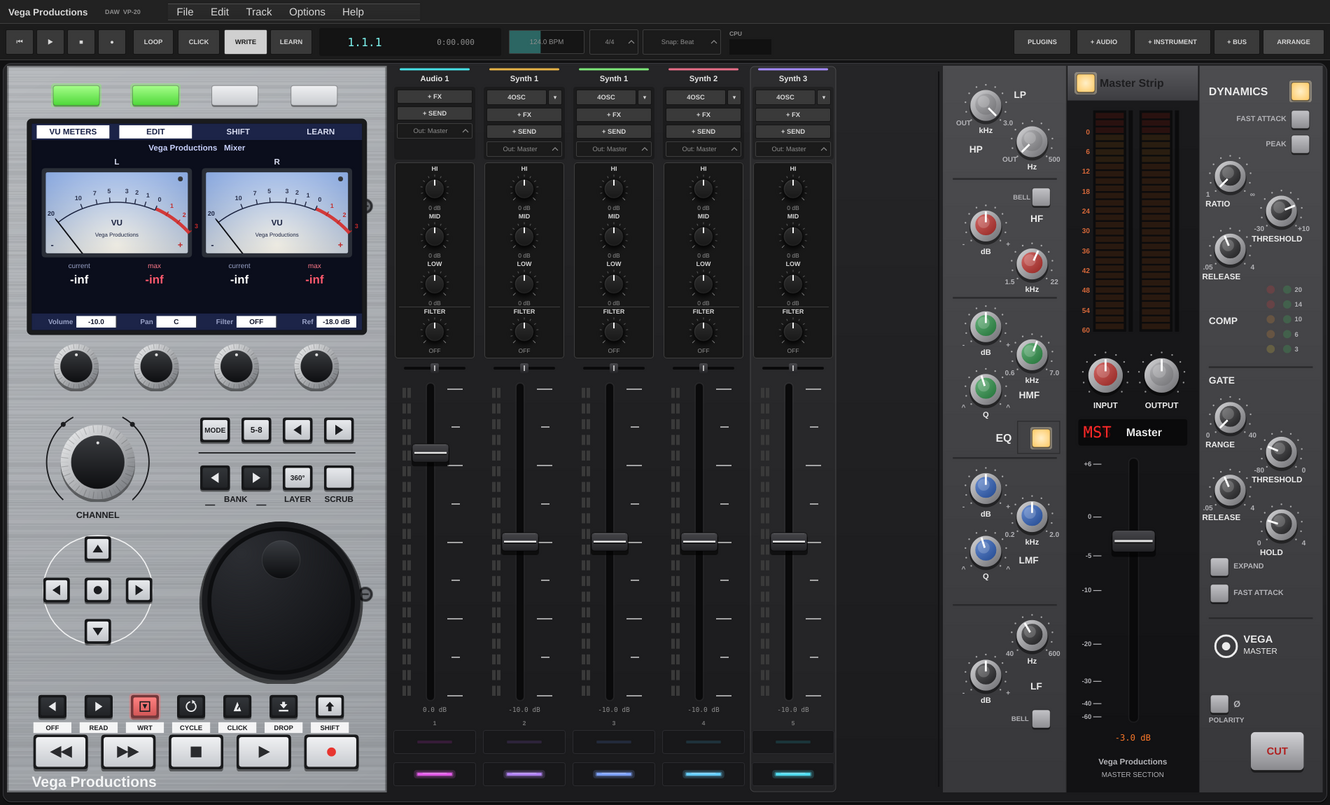
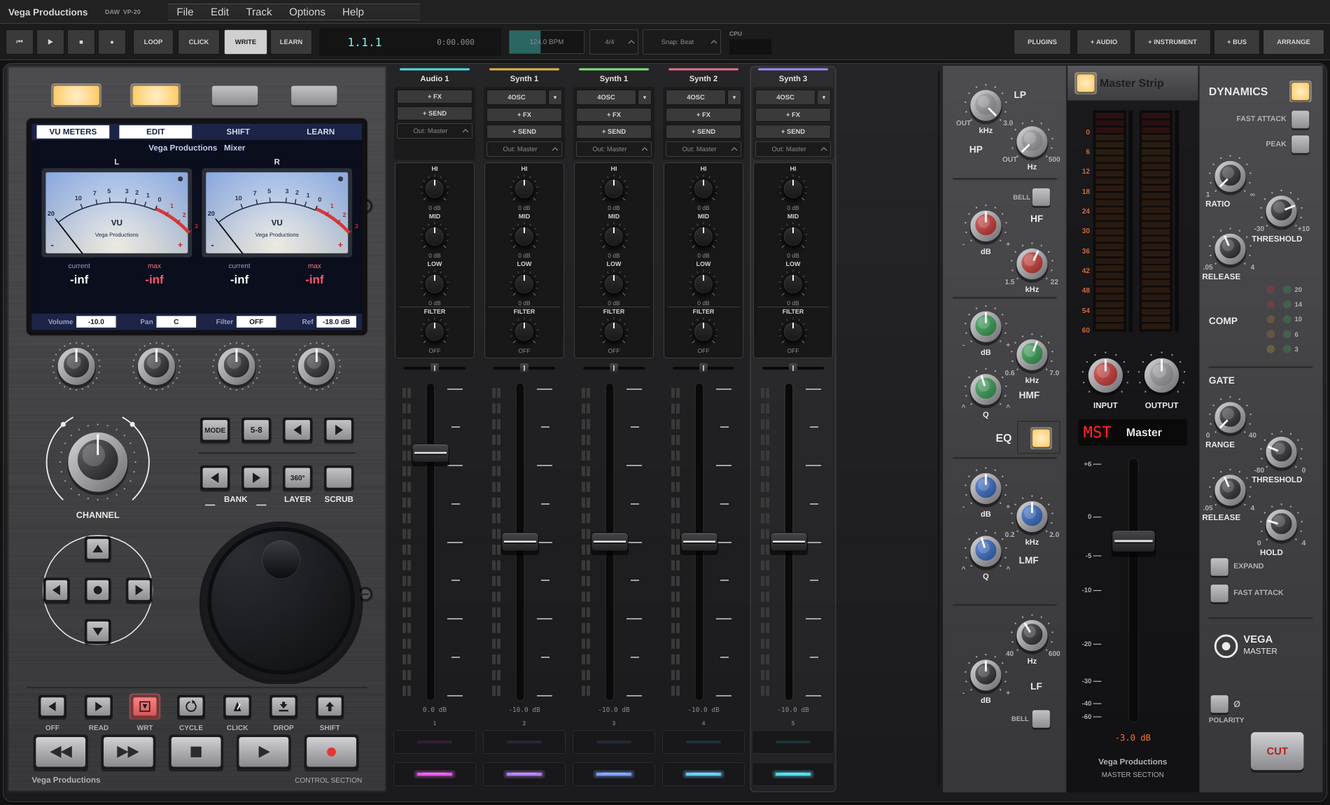
Control section uses the master section's colour scheme: graphite panel, white lettering, grey keys with warm lamp glow, master-style knobs
Claude-Session: https://claude.ai/code/session_01VJnHMTEDfDub9U6z6b13o5

Changed region(s): [[0.0, 0.0621, 0.3083, 0.9938]]

diff --git a/Source/MixerView.cpp b/Source/MixerView.cpp
@@ -700,10 +700,10 @@ public:
         g.setColour (juce::Colours::black.withAlpha (0.35f)); g.fillRoundedRectangle (r.translated (0, 2.0f), 3.0f);
         if (getToggleState())
         {
-            g.setColour (juce::Colour (0xff7dff5a).withAlpha (0.35f)); g.fillRoundedRectangle (r.expanded (3.0f), 5.0f);
-            g.setGradientFill (juce::ColourGradient (juce::Colour (0xffa6ff8a), 0, r.getY(), juce::Colour (0xff4fd83a), 0, r.getBottom(), false));
+            g.setColour (juce::Colour (0xfffff0c8).withAlpha (0.35f)); g.fillRoundedRectangle (r.expanded (3.0f), 5.0f);
+            g.setGradientFill (juce::ColourGradient (juce::Colour (0xfffff0c8), r.getCentreX(), r.getCentreY(), juce::Colour (0xffffc860), r.getX(), r.getY(), true));
         }
-        else g.setGradientFill (juce::ColourGradient (juce::Colour (down ? 0xffd8dadd : over ? 0xfffafbfc : 0xfff0f1f3), 0, r.getY(), juce::Colour (0xffc9ccd0), 0, r.getBottom(), false));
+        else g.setGradientFill (juce::ColourGradient (juce::Colour (down ? 0xffa8a8ac : over ? 0xffd2d2d6 : 0xffc4c4c8), 0, r.getY(), juce::Colour (0xff8e8e92), 0, r.getBottom(), false));
         g.fillRoundedRectangle (r, 3.0f);
         g.setColour (juce::Colours::black.withAlpha (0.25f)); g.drawRoundedRectangle (r, 3.0f, 1.0f);
     }
@@ -714,8 +714,8 @@ class Key : public juce::Button
 {
 public:
     enum Icon { none, left, right, up, down, dot, loop, metro, dropIn, shiftUp, write, text };
-    Key (Icon i = none, juce::String t = {}, juce::Colour litCol = juce::Colour (0xfff7f06a), bool darkFace = true)
-        : juce::Button (t), icon (i), lit (litCol), dark (darkFace) {}
+    Key (Icon i = none, juce::String t = {}, juce::Colour litCol = juce::Colour (0xffffd98a), bool darkFace = false)
+        : juce::Button (t), icon (i), lit (litCol), dark (false) { juce::ignoreUnused (darkFace); }
     Icon icon; juce::Colour lit; bool dark;
     void paintButton (juce::Graphics& g, bool over, bool isDown) override
     {
@@ -725,8 +725,8 @@ public:
         g.setColour (juce::Colour (0xff17181a)); g.fillRoundedRectangle (r, 3.0f);                           // bezel
         auto face = r.reduced (3.0f);
         if (on) { g.setColour (lit.withAlpha (0.4f)); g.fillRoundedRectangle (r.expanded (2.0f), 4.0f); }
-        juce::Colour top = on ? lit.brighter (0.2f) : dark ? juce::Colour (isDown ? 0xff2a2c30 : over ? 0xff3b3e43 : 0xff33363a) : juce::Colour (isDown ? 0xffcfd2d6 : over ? 0xfff6f7f8 : 0xffe9ebee);
-        juce::Colour bot = on ? lit.darker (0.2f) : dark ? juce::Colour (0xff222427) : juce::Colour (0xffc2c5ca);
+        juce::Colour top = on ? lit.brighter (0.2f) : dark ? juce::Colour (isDown ? 0xff2a2c30 : over ? 0xff3b3e43 : 0xff33363a) : juce::Colour (isDown ? 0xffa8a8ac : over ? 0xffd2d2d6 : 0xffc4c4c8);
+        juce::Colour bot = on ? lit.darker (0.2f) : dark ? juce::Colour (0xff222427) : juce::Colour (0xff8e8e92);
         g.setGradientFill (juce::ColourGradient (top, 0, face.getY(), bot, 0, face.getBottom(), false));
         g.fillRoundedRectangle (face, 2.0f);
         const auto ink = on || ! dark ? juce::Colour (0xff1c1d20) : juce::Colour (0xffe9eaec);
@@ -774,7 +774,7 @@ public:
         g.setColour (juce::Colours::black.withAlpha (0.45f)); g.fillRoundedRectangle (r.translated (0, 3.0f), 4.0f);
         g.setColour (juce::Colour (0xff1a1b1d)); g.fillRoundedRectangle (r, 4.0f);
         auto face = r.reduced (3.0f);
-        juce::Colour top = juce::Colour (down ? 0xffd2d5d9 : over ? 0xfffbfcfd : 0xfff1f2f4), bot = juce::Colour (0xffc8cbd0);
+        juce::Colour top = juce::Colour (down ? 0xffb8b8bc : over ? 0xffe2e2e6 : 0xffd2d2d6), bot = juce::Colour (0xff8a8a8e);
         if (on && icon == play) { top = juce::Colour (0xff8cff6c); bot = juce::Colour (0xff3fcf32); g.setColour (juce::Colour (0x667dff5a)); g.fillRoundedRectangle (r.expanded (3.0f), 6.0f); }
         if (on && icon == rec)  { top = juce::Colour (0xffff7a7a); bot = juce::Colour (0xffe03a3a); g.setColour (juce::Colour (0x66ff4040)); g.fillRoundedRectangle (r.expanded (3.0f), 6.0f); }
         g.setGradientFill (juce::ColourGradient (top, 0, face.getY(), bot, 0, face.getBottom(), false));
@@ -803,25 +803,27 @@ public:
     std::function<void()> onReset;
     void paint (juce::Graphics& g) override
     {
-        auto r = getLocalBounds().toFloat().reduced (3.0f);
-        const auto c = r.getCentre(); const float rad = std::min (r.getWidth(), r.getHeight()) * 0.5f;
-        g.setColour (juce::Colours::black.withAlpha (0.45f)); g.fillEllipse (juce::Rectangle<float> (rad * 2, rad * 2).withCentre (c.translated (0, 4)));
-        // knurled chrome skirt
-        g.setGradientFill (juce::ColourGradient (juce::Colour (0xfff4f5f6), c.x - rad, c.y - rad, juce::Colour (0xff6d7075), c.x + rad, c.y + rad, false));
-        g.fillEllipse (juce::Rectangle<float> (rad * 2, rad * 2).withCentre (c));
-        for (int i = 0; i < 48; ++i)
+        // same look as the master section's knobs: ring of dots, grey skirt, dark cap, white pointer
+        auto r = getLocalBounds().toFloat();
+        const auto c = r.getCentre(); const float outer = std::min (r.getWidth(), r.getHeight()) * 0.5f;
+        g.setColour (juce::Colours::white.withAlpha (0.45f));
+        for (int i = 0; i < 24; ++i)
         {
-            const float a = i * juce::MathConstants<float>::twoPi / 48.0f + angle;
-            g.setColour (juce::Colours::black.withAlpha (i % 2 ? 0.18f : 0.05f));
-            g.drawLine (c.x + std::sin (a) * rad * 0.8f, c.y - std::cos (a) * rad * 0.8f, c.x + std::sin (a) * rad, c.y - std::cos (a) * rad, 1.0f);
+            const float a = i * juce::MathConstants<float>::twoPi / 24.0f;
+            g.fillEllipse (juce::Rectangle<float> (2.0f, 2.0f).withCentre ({ c.x + std::sin (a) * outer * 0.95f, c.y - std::cos (a) * outer * 0.95f }));
         }
-        // black top
-        const float tr = rad * 0.72f;
-        g.setGradientFill (juce::ColourGradient (juce::Colour (0xff3a3c40), c.x, c.y - tr, juce::Colour (0xff0e0f11), c.x, c.y + tr, false));
-        g.fillEllipse (juce::Rectangle<float> (tr * 2, tr * 2).withCentre (c));
-        g.setColour (juce::Colours::white.withAlpha (0.1f)); g.drawEllipse (juce::Rectangle<float> (tr * 2, tr * 2).withCentre (c), 1.0f);
-        g.setColour (juce::Colours::white.withAlpha (0.85f));
-        g.fillEllipse (juce::Rectangle<float> (3.5f, 3.5f).withCentre ({ c.x + std::sin (angle) * tr * 0.72f, c.y - std::cos (angle) * tr * 0.72f }));
+        const float d = outer * 1.5f;
+        auto skirt = juce::Rectangle<float> (d, d).withCentre (c);
+        g.setColour (juce::Colours::black.withAlpha (0.45f)); g.fillEllipse (skirt.translated (0, 3.0f).expanded (1.0f));
+        g.setGradientFill (juce::ColourGradient (juce::Colour (0xffd6d6d8), skirt.getX(), skirt.getY(), juce::Colour (0xff6c6c70), skirt.getRight(), skirt.getBottom(), false));
+        g.fillEllipse (skirt);
+        auto cap = skirt.reduced (d * 0.16f).translated (0, -d * 0.04f);
+        const auto capCol = console::black;
+        g.setGradientFill (juce::ColourGradient (capCol.brighter (0.45f), cap.getX(), cap.getY(), capCol.darker (0.35f), cap.getRight(), cap.getBottom(), true));
+        g.fillEllipse (cap);
+        g.setColour (juce::Colours::white.withAlpha (0.18f)); g.fillEllipse (cap.reduced (cap.getWidth() * 0.22f).translated (-cap.getWidth() * 0.1f, -cap.getHeight() * 0.12f));
+        g.setColour (juce::Colours::white);
+        g.drawLine (c.x + std::sin (angle) * d * 0.12f, c.y - std::cos (angle) * d * 0.12f, c.x + std::sin (angle) * d * 0.47f, c.y - std::cos (angle) * d * 0.47f, 2.4f);
     }
     void mouseDown (const juce::MouseEvent& e) override { lastY = e.position.y; }
     void mouseDrag (const juce::MouseEvent& e) override
@@ -1099,7 +1101,8 @@ private:
         g.drawImageAt (plate, 0, 0);
         // screen
         auto scr = juce::Rectangle<float> (30, 70, 400, 250);
-        g.setColour (juce::Colour (0xff1a1b1d)); g.fillRoundedRectangle (scr.expanded (6), 6.0f);
+        g.setColour (juce::Colour (0xff121214)); g.fillRoundedRectangle (scr.expanded (6), 6.0f);
+        g.setColour (juce::Colours::black.withAlpha (0.35f)); g.drawRoundedRectangle (scr.expanded (6), 6.0f, 2.0f);
         g.setColour (juce::Colour (0xff070809)); g.fillRect (scr);
         // tab bar (soft key labels)
         auto tabs = scr.removeFromTop (20.0f);
@@ -1148,7 +1151,7 @@ private:
         g.setColour (juce::Colour (0xff3a3c40));
         for (int i = 1; i < 4; ++i) g.fillRect ((float) encX (i) - 49, bar.getY() + 3, 1.0f, bar.getHeight() - 6);
         // labels + channel arcs
-        g.setColour (juce::Colour (0xff1c1d20)); g.setFont (VegaFonts::ui (12.0f, true));
+        g.setColour (console::ink); g.setFont (VegaFonts::ui (12.0f, true));
         g.drawText ("CHANNEL", 50, 536, 120, 16, juce::Justification::centred);
         {
             juce::Path arc; arc.addCentredArc (110, 480, 62, 62, 0, -2.4f, -0.5f, true);
@@ -1161,7 +1164,7 @@ private:
         g.drawText ("BANK", 232, 518, 90, 14, juce::Justification::centred);
         g.drawText ("LAYER", 332, 518, 40, 14, juce::Justification::centred);
         g.drawText ("SCRUB", 376, 518, 52, 14, juce::Justification::centred);
-        g.fillRect (232.0f, 468.0f, 190.0f, 1.5f);
+        g.setColour (console::line); g.fillRect (232.0f, 468.0f, 190.0f, 2.0f); g.setColour (console::ink);
         g.drawLine (240, 532, 252, 532, 1.2f); g.drawLine (302, 532, 314, 532, 1.2f);
         // nav ring
         {
@@ -1173,12 +1176,13 @@ private:
         for (int i = 0; i < 7; ++i)
         {
             auto lr = juce::Rectangle<float> (36.0f + i * 56 - 4, 795, 46, 13);
-            g.setColour (juce::Colours::white.withAlpha (0.9f)); g.fillRect (lr);
-            g.setColour (juce::Colour (0xff1c1d20)); g.setFont (VegaFonts::ui (9.0f, true)); g.drawText (fn[i], lr, juce::Justification::centred);
+            g.setColour (console::inkDim); g.setFont (VegaFonts::ui (9.5f, true)); g.drawText (fn[i], lr, juce::Justification::centred);
         }
         // brand
-        g.setColour (juce::Colour (0xfff4f5f6)); g.setFont (juce::Font (juce::FontOptions ("Georgia", 20.0f, juce::Font::bold)));
-        g.drawText ("Vega Productions", 30, 856, 260, 22, juce::Justification::centredLeft);
+        g.setColour (console::line); g.fillRect (24.0f, 752.0f, (float) CW - 48, 2.0f);
+        g.setColour (console::inkDim); g.setFont (VegaFonts::ui (11.0f, true));
+        g.drawText ("Vega Productions", 30, 858, 200, 14, juce::Justification::centredLeft);
+        g.setFont (VegaFonts::ui (9.5f)); g.drawText ("CONTROL SECTION", CW - 230, 858, 200, 14, juce::Justification::centredRight);
     }
 
     void drawVu (juce::Graphics& g, juce::Rectangle<float> r, float vu)
@@ -1233,19 +1237,20 @@ private:
     {
         juce::Image img (juce::Image::RGB, CW, CH, true);
         juce::Graphics g (img);
-        g.setGradientFill (juce::ColourGradient (juce::Colour (0xffb7babe), 0, 0, juce::Colour (0xff9b9fa4), (float) CW, (float) CH, false));
+        // same finish as the master section's side panels
+        g.setGradientFill (juce::ColourGradient (console::panelTop, 0, 0, console::panelBot, 0, (float) CH, false));
         g.fillAll();
         juce::Random rnd (7);
-        for (int y = 0; y < CH; ++y)         // brushed finish
+        for (int y = 0; y < CH; ++y)         // very fine grain
         {
-            g.setColour ((rnd.nextBool() ? juce::Colours::white : juce::Colours::black).withAlpha (0.02f + rnd.nextFloat() * 0.04f));
+            g.setColour ((rnd.nextBool() ? juce::Colours::white : juce::Colours::black).withAlpha (0.008f + rnd.nextFloat() * 0.012f));
             g.drawHorizontalLine (y, 0, (float) CW);
         }
         g.setColour (juce::Colours::black.withAlpha (0.35f)); g.drawRect (0, 0, CW, CH, 2);
         for (auto [x, y] : { std::pair<int, int> { CW - 26, 170 }, { CW - 26, 640 } })   // screws
         {
-            g.setColour (juce::Colour (0xff2a2b2e)); g.fillEllipse ((float) x - 9, (float) y - 9, 18, 18);
-            g.setColour (juce::Colour (0xff6a6d72)); g.fillEllipse ((float) x - 6, (float) y - 6, 12, 12);
+            g.setColour (juce::Colour (0xff1e1e20)); g.fillEllipse ((float) x - 9, (float) y - 9, 18, 18);
+            g.setColour (juce::Colour (0xff55555a)); g.fillEllipse ((float) x - 6, (float) y - 6, 12, 12);
             g.setColour (juce::Colour (0xff1a1b1d)); g.drawLine ((float) x - 4, (float) y, (float) x + 4, (float) y, 1.5f);
         }
         return img;
@@ -1255,16 +1260,16 @@ private:
     Canvas canvas; juce::Image plate;
     uf::SoftKey soft[4];
     uf::Encoder enc[4], channel;
-    uf::Key mode { uf::Key::text, "MODE", juce::Colour (0xfff7f06a), false }, page58 { uf::Key::text, "5-8", juce::Colour (0xfff7f06a), false },
-            chanL { uf::Key::left, {}, juce::Colour (0xfff7f06a), false }, chanR { uf::Key::right, {}, juce::Colour (0xfff7f06a), false },
-            bankL { uf::Key::left }, bankR { uf::Key::right }, layer { uf::Key::text, juce::String::fromUTF8 ("360\xc2\xb0"), juce::Colour (0xfff7f06a), false },
+    uf::Key mode { uf::Key::text, "MODE", juce::Colour (0xffffd98a), false }, page58 { uf::Key::text, "5-8", juce::Colour (0xffffd98a), false },
+            chanL { uf::Key::left, {}, juce::Colour (0xffffd98a), false }, chanR { uf::Key::right, {}, juce::Colour (0xffffd98a), false },
+            bankL { uf::Key::left }, bankR { uf::Key::right }, layer { uf::Key::text, juce::String::fromUTF8 ("360\xc2\xb0"), juce::Colour (0xffffd98a), false },
             scrub { uf::Key::none, {}, juce::Colour (0xffff8a7a), false },
-            navUp { uf::Key::up, {}, juce::Colour (0xfff7f06a), false }, navDown { uf::Key::down, {}, juce::Colour (0xfff7f06a), false },
-            navLeft { uf::Key::left, {}, juce::Colour (0xfff7f06a), false }, navRight { uf::Key::right, {}, juce::Colour (0xfff7f06a), false },
-            navDot { uf::Key::dot, {}, juce::Colour (0xfff7f06a), false },
-            autoOff { uf::Key::left, {}, juce::Colour (0xfff7f06a) }, autoRead { uf::Key::right, {}, juce::Colour (0xff7dff5a) }, autoWrite { uf::Key::write, {}, juce::Colour (0xffff6a6a) },
-            cycle { uf::Key::loop, {}, juce::Colour (0xfff7f06a) }, click { uf::Key::metro, {}, juce::Colour (0xfff7f06a) }, drop { uf::Key::dropIn, {}, juce::Colour (0xffff8a7a) },
-            shiftKey { uf::Key::shiftUp, {}, juce::Colour (0xfff7f06a), false };
+            navUp { uf::Key::up, {}, juce::Colour (0xffffd98a), false }, navDown { uf::Key::down, {}, juce::Colour (0xffffd98a), false },
+            navLeft { uf::Key::left, {}, juce::Colour (0xffffd98a), false }, navRight { uf::Key::right, {}, juce::Colour (0xffffd98a), false },
+            navDot { uf::Key::dot, {}, juce::Colour (0xffffd98a), false },
+            autoOff { uf::Key::left, {}, juce::Colour (0xffffd98a) }, autoRead { uf::Key::right, {}, juce::Colour (0xff7dff5a) }, autoWrite { uf::Key::write, {}, juce::Colour (0xffff6a6a) },
+            cycle { uf::Key::loop, {}, juce::Colour (0xffffd98a) }, click { uf::Key::metro, {}, juce::Colour (0xffffd98a) }, drop { uf::Key::dropIn, {}, juce::Colour (0xffff8a7a) },
+            shiftKey { uf::Key::shiftUp, {}, juce::Colour (0xffffd98a), false };
     uf::TransportKey rew { uf::TransportKey::rew }, ffwd { uf::TransportKey::ffwd }, stop { uf::TransportKey::stop }, play { uf::TransportKey::play }, rec { uf::TransportKey::rec };
     tp::Jog jog;
     juce::String line1 { "Vega Productions" }, line2 { "Mixer" };
